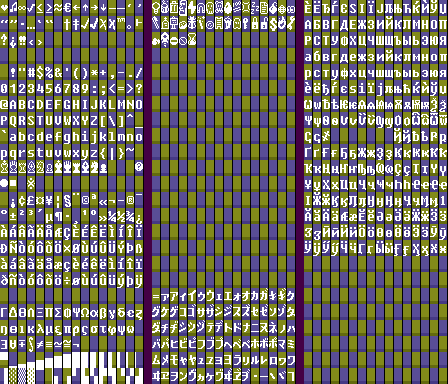
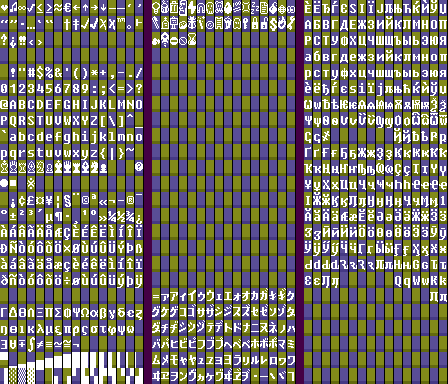
Add Cyrillic supplement to Cyrillic codepage. Draw many of the 1x characters and anti-alias some for 2x. Improved a few assorted glyphs as well.
git-svn-id: file:///home/runner/work/tom7misc-sync-action/tom7misc-sync-action/upstream/trunk@5974 c7e11af0-4c7a-11f1-9edd-117cb6f09d55

Changed region(s): [[0.6562, 0.6562, 1.0, 0.7812], [0.0625, 0.875, 0.0938, 0.9062]]

diff --git a/bit7/font-image.cc b/bit7/font-image.cc
@@ -691,12 +691,69 @@ const std::vector<int> &PageBit7Cyrillic() {
     0x04FE, // (Ӿ) Cyrillic Capital Letter Ha with Stroke
     0x04FF, // (ӿ) Cyrillic Small Letter Ha with Stroke
 
-    // 128 unclaimed glyphs.
-    // "Cyrillic Supplement" may be a good choice to go here?
-    // U+0500 - U+052F
-    -1, -1, -1, -1, -1, -1, -1, -1, -1, -1, -1, -1, -1, -1, -1, -1,
-    -1, -1, -1, -1, -1, -1, -1, -1, -1, -1, -1, -1, -1, -1, -1, -1,
-    -1, -1, -1, -1, -1, -1, -1, -1, -1, -1, -1, -1, -1, -1, -1, -1,
+    // "Cyrillic Supplement" exactly as unicode, U+0500 - U+052F
+    0x0500, // (Ԁ) CYRILLIC CAPITAL LETTER KOMI DE
+    0x0501, // (ԁ) CYRILLIC SMALL LETTER KOMI DE
+    0x0502, // (Ԃ) CYRILLIC CAPITAL LETTER KOMI DJE
+    0x0503, // (ԃ) CYRILLIC SMALL LETTER KOMI DJE
+    0x0504, // (Ԅ) CYRILLIC CAPITAL LETTER KOMI ZJE
+    0x0505, // (ԅ) CYRILLIC SMALL LETTER KOMI ZJE
+    0x0506, // (Ԇ) CYRILLIC CAPITAL LETTER KOMI DZJE
+    0x0507, // (ԇ) CYRILLIC SMALL LETTER KOMI DZJE
+    0x0508, // (Ԉ) CYRILLIC CAPITAL LETTER KOMI LJE
+    0x0509, // (ԉ) CYRILLIC SMALL LETTER KOMI LJE
+    0x050A, // (Ԋ) CYRILLIC CAPITAL LETTER KOMI NJE
+    0x050B, // (ԋ) CYRILLIC SMALL LETTER KOMI NJE
+    0x050C, // (Ԍ) CYRILLIC CAPITAL LETTER KOMI SJE
+    0x050D, // (ԍ) CYRILLIC SMALL LETTER KOMI SJE
+    0x050E, // (Ԏ) CYRILLIC CAPITAL LETTER KOMI TJE
+    0x050F, // (ԏ) CYRILLIC SMALL LETTER KOMI TJE
+    // Khanty letters
+    0x0510, // (Ԑ) CYRILLIC CAPITAL LETTER REVERSED ZE
+    0x0511, // (ԑ) CYRILLIC SMALL LETTER REVERSED ZE
+    // Chukchi letters
+    0x0512, // (Ԓ) CYRILLIC CAPITAL LETTER EL WITH HOOK
+    0x0513, // (ԓ) CYRILLIC SMALL LETTER EL WITH HOOK
+    // Mordvin letters
+    0x0514, // (Ԕ) CYRILLIC CAPITAL LETTER LHA
+    0x0515, // (ԕ) CYRILLIC SMALL LETTER LHA
+    0x0516, // (Ԗ) CYRILLIC CAPITAL LETTER RHA
+    0x0517, // (ԗ) CYRILLIC SMALL LETTER RHA
+    0x0518, // (Ԙ) CYRILLIC CAPITAL LETTER YAE
+    0x0519, // (ԙ) CYRILLIC SMALL LETTER YAE
+    // Kurdish letters
+    0x051A, // (Ԛ) CYRILLIC CAPITAL LETTER QA
+    0x051B, // (ԛ) CYRILLIC SMALL LETTER QA
+    0x051C, // (Ԝ) CYRILLIC CAPITAL LETTER WE
+    0x051D, // (ԝ) CYRILLIC SMALL LETTER WE
+    // Aleut letters
+    0x051E, // (Ԟ) CYRILLIC CAPITAL LETTER ALEUT KA
+    0x051F, // (ԟ) CYRILLIC SMALL LETTER ALEUT KA
+    // Chuvash letters
+    0x0520, // (Ԡ) CYRILLIC CAPITAL LETTER EL WITH MIDDLE
+    0x0521, // (ԡ) CYRILLIC SMALL LETTER EL WITH MIDDLE
+    0x0522, // (Ԣ) CYRILLIC CAPITAL LETTER EN WITH MIDDLE
+    0x0523, // (ԣ) CYRILLIC SMALL LETTER EN WITH MIDDLE
+
+    // Abkhaz letters
+    0x0524, // (Ԥ) CYRILLIC CAPITAL LETTER PE WITH
+    0x0525, // (ԥ) CYRILLIC SMALL LETTER PE WITH DESCENDER
+    // Azerbaijani letters
+    0x0526, // (Ԧ) CYRILLIC CAPITAL LETTER SHHA WITH
+    0x0527, // (ԧ) CYRILLIC SMALL LETTER SHHA WITH
+    // Orok letters
+    0x0528, // (Ԩ) CYRILLIC CAPITAL LETTER EN WITH LEFT HOOK
+    0x0529, // (ԩ) CYRILLIC SMALL LETTER EN WITH LEFT HOOK
+    // Komi letters
+    0x052A, // (Ԫ) CYRILLIC CAPITAL LETTER DZZHE
+    0x052B, // (ԫ) CYRILLIC SMALL LETTER DZZHE
+    0x052C, // (Ԭ) CYRILLIC CAPITAL LETTER DCHE
+    0x052D, // (ԭ) CYRILLIC SMALL LETTER DCHE
+    // Khanty letters
+    0x052E, // (Ԯ) CYRILLIC CAPITAL LETTER EL WITH DESCENDER
+    0x052F, // (ԯ) CYRILLIC SMALL LETTER EL WITH DESCENDER
+
+    // 80 unclaimed glyphs
     -1, -1, -1, -1, -1, -1, -1, -1, -1, -1, -1, -1, -1, -1, -1, -1,
     -1, -1, -1, -1, -1, -1, -1, -1, -1, -1, -1, -1, -1, -1, -1, -1,
     -1, -1, -1, -1, -1, -1, -1, -1, -1, -1, -1, -1, -1, -1, -1, -1,
@@ -746,6 +803,9 @@ REUSE_FOR = {
   {'s', 0x0455},
   {'i', 0x0456},
   {'j', 0x0458},
+  {'d', 0x0501},
+  {'Q', 0x051A},
+  {'q', 0x051B},
   {'W', 0x051C},
   {'w', 0x051D},
   // TODO: More cyrillic can be copied from Latin-1, Greek.
